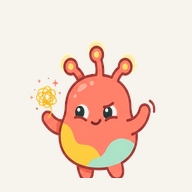
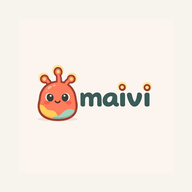
Add files via upload

Changed region(s): [[0.1562, 0.1875, 0.8125, 0.9375]]

diff --git a/index.html b/index.html
@@ -254,20 +254,25 @@ body{
 <div class="page on" id="pg-home">
   <div class="bg"><div class="blob b1"></div><div class="blob b2"></div><div class="blob b3"></div><div class="blob b4"></div></div>
   <div class="rel">
-        <div class="hdr">
-      <div class="logo">maivi</div>
-      <div style="width:40px;height:40px;border-radius:50%;background:var(--coral-s);border:3px solid var(--coral);display:flex;align-items:center;justify-content:center;font-size:18px;cursor:pointer" onclick="go('membres')">👧</div>
+    <!-- Header avec nouveau logo -->
+    <div style="padding:16px 20px 8px;display:flex;align-items:center;justify-content:space-between">
+      <!-- Logo : mascotte + maivi en dessous -->
+      <div style="display:flex;align-items:center;gap:10px">
+        <div style="display:flex;flex-direction:column;align-items:center;gap:1px">
+          <img src="mascotte.png" alt="Maivi" style="width:40px;height:40px;object-fit:contain">
+          <div style="font-family:'Baloo 2',cursive;font-size:12px;font-weight:800;color:var(--dk);letter-spacing:.5px;line-height:1">maivi</div>
+        </div>
+      </div>
+      <div style="width:38px;height:38px;border-radius:50%;background:var(--coral-s);border:2.5px solid var(--coral);display:flex;align-items:center;justify-content:center;font-size:17px;cursor:pointer" onclick="go('membres')">👧</div>
     </div>
-    <div style="display:flex;justify-content:flex-end;padding:0 20px;height:110px;position:relative">
-      <img src="mascotte.png" alt="Maivi" style="width:110px;height:110px;object-fit:contain;animation:bou 3s ease-in-out infinite;position:absolute;right:20px;top:0">
-    </div>
-    <div class="card">
-      <div style="font-family:'Baloo 2',cursive;font-size:20px;font-weight:700;color:var(--dk)">Bonjour 👋</div>
-      <div style="font-size:12px;color:var(--mid);font-weight:600;margin-top:2px">Résumé de ta journée</div>
-    </div>
-    <div class="bub">
-      <div style="width:30px;height:30px;border-radius:50%;background:var(--yellow-s);display:flex;align-items:center;justify-content:center;font-size:15px;flex-shrink:0">😊</div>
-      <div style="flex:1;font-size:12px;color:var(--mid);font-weight:600;line-height:1.4" id="hbub">Bonne journée ! ☀</div>
+
+    <!-- Mascotte centrale animée -->
+    <div style="display:flex;justify-content:center;padding:8px 20px 4px;position:relative">
+      <div style="text-align:center">
+        <img src="mascotte.png" alt="Maivi" style="width:80px;height:80px;object-fit:contain;animation:bou 3s ease-in-out infinite">
+        <div style="font-family:'Baloo 2',cursive;font-size:22px;font-weight:800;color:var(--dk);margin-top:4px">maivi</div>
+        <div style="font-size:12px;font-weight:700;color:var(--mid);margin-top:1px" id="hbub">Bonne journée !</div>
+      </div>
     </div>
     <div class="sh"><div class="st">Aujourd'hui</div><div class="sl" onclick="go('agenda')">Tout voir →</div></div>
     <div class="card" id="htoday"><div class="empty">😴 Aucun événement aujourd'hui !</div></div>
@@ -569,7 +574,13 @@ body{
 <div id="tab-bar">
   <div class="tab" id="tab-agenda" onclick="go('agenda')"><div class="ti">📅</div><div class="tlab">AGENDA</div></div>
   <div class="tab" id="tab-courses" onclick="go('courses')"><div class="ti">✅</div><div class="tlab">COURSES</div></div>
-  <div class="tab on" id="tab-home" onclick="go('home')"><div class="thome">🏠</div><div class="tlab" style="color:var(--teal)">ACCUEIL</div></div>
+  <div class="tab on" id="tab-home" onclick="go('home')">
+    <div style="width:52px;height:52px;border-radius:18px;background:linear-gradient(180deg,rgba(247,243,237,.95),rgba(234,183,150,.3));display:flex;flex-direction:column;align-items:center;justify-content:center;gap:1px;box-shadow:0 6px 16px rgba(233,138,105,.2);border:1.5px solid rgba(234,183,150,.4)">
+      <img src="mascotte.png" style="width:30px;height:30px;object-fit:contain">
+      <div style="font-family:'Baloo 2',cursive;font-size:8px;font-weight:800;color:var(--dk);letter-spacing:.3px">maivi</div>
+    </div>
+    <div class="tlab" style="color:var(--teal)">ACCUEIL</div>
+  </div>
   <div class="tab" id="tab-sante" onclick="go('sante')"><div class="ti">💊</div><div class="tlab">SANTÉ</div></div>
   <div class="tab" id="tab-pro" onclick="go('pro')"><div class="ti">📸</div><div class="tlab">PRO</div></div>
 </div>
@@ -1010,7 +1021,10 @@ body{
       </div>
       <div class="ob-slide" id="ob-4">
         <div style="height:45%;display:flex;align-items:center;justify-content:center;background:linear-gradient(160deg,#FCE8DF,#F8D4C4)">
-          <div style="text-align:center"><img src="mascotte.png" style="width:90px;height:90px;object-fit:contain"><div style="font-size:12px;font-weight:900;color:var(--coral);letter-spacing:.8px;margin-top:8px">MAIVI</div></div>
+          <div style="text-align:center">
+            <img src="mascotte.png" style="width:80px;height:80px;object-fit:contain">
+            <div style="font-family:'Baloo 2',cursive;font-size:22px;font-weight:800;color:var(--dk);margin-top:6px">maivi</div>
+          </div>
         </div>
         <div style="padding:32px 28px"><div style="font-size:26px;font-weight:900;color:var(--dk);letter-spacing:-.4px;margin-bottom:12px">Tout pour la famille<br>en un seul endroit</div><div style="font-size:15px;font-weight:600;color:var(--mid);line-height:1.6">Courses, santé, contacts, fidélité. Maivi centralise tout ce dont votre famille a besoin au quotidien.</div></div>
       </div>
